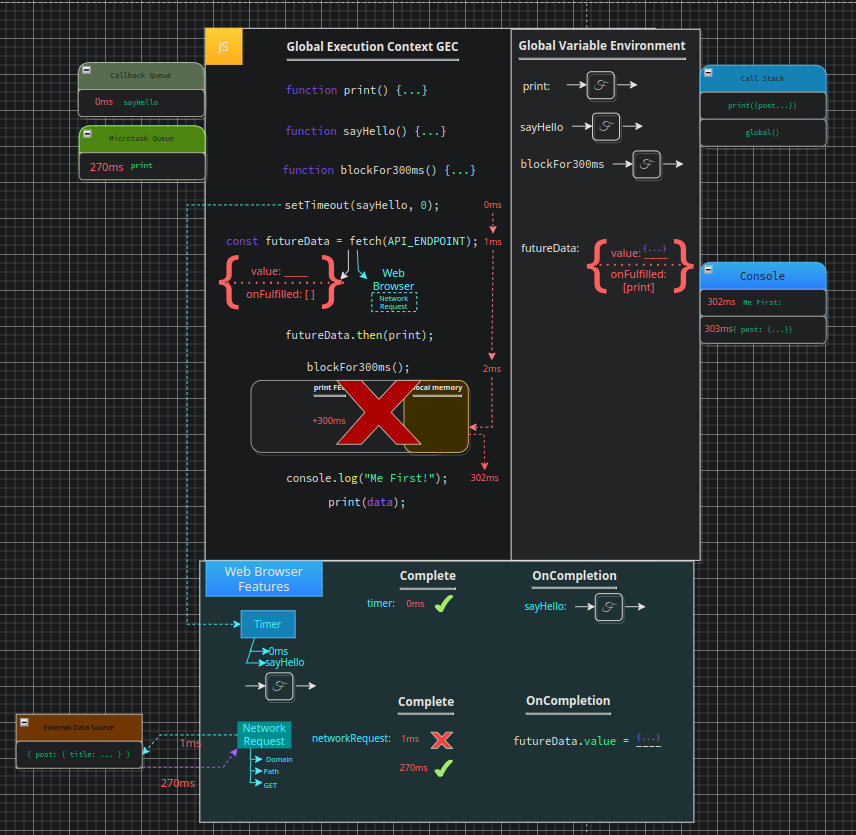
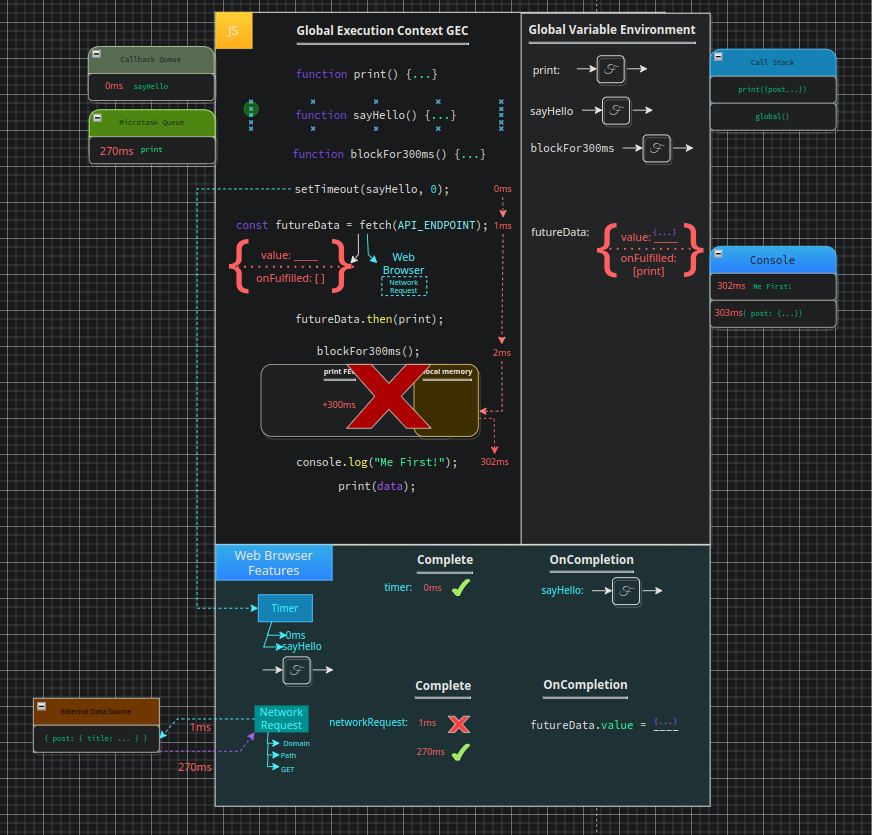
Add microtask final

Changed region(s): [[0.0, 0.0, 1.0, 1.0], [0.6075, 0.8096, 0.729, 0.903], [0.2734, 0.4671, 0.3037, 0.5293]]

diff --git a/chapters/13_promise_order.md b/chapters/13_promise_order.md
@@ -72,3 +72,26 @@ Thus our code continues, exiting our `blockFor300ms FEC` at `302ms` running our 
 <div align="center">
     <img src="../images/microtaskQueue.png">
 </div>
+
+<br />
+
+Our `event loop` checks the `call stack` again, there is nothing to run, thus it once again checks the `microtask queue` which is now also empty. Lastly, it checks the `callback queue` and finds our `sayHello` function. This function is added to the `call stack` invoking it and logging `Hello` to our console. Note that we have glossed over the invocation here, both these cases will still result in new execution contexts, however, these contexts are simply not that interesting and for brevity I feel it best to omit these, at this point well known, principles.
+
+<br />
+
+<div align="center">
+    <img src="../images/finalModelLarge.png">
+</div>
+
+<br />
+
+## Microtask Queue
+
+
+---
+
+<div align="right">
+
+[<< prev](./12_promises.md) | [next >>](./)
+
+</div>
